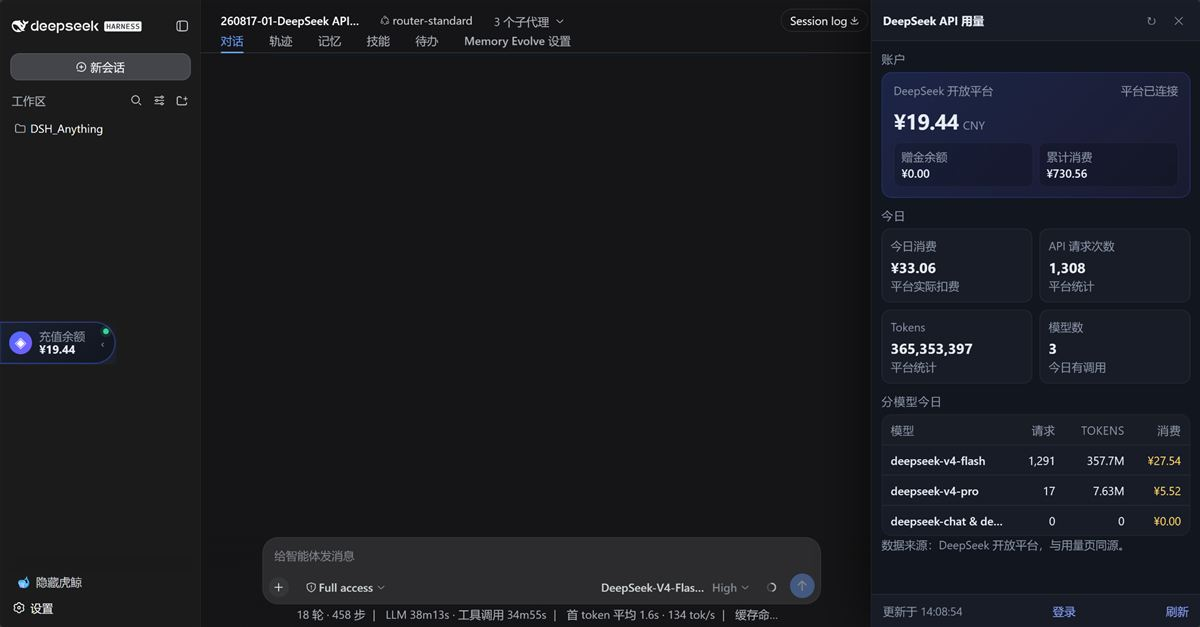
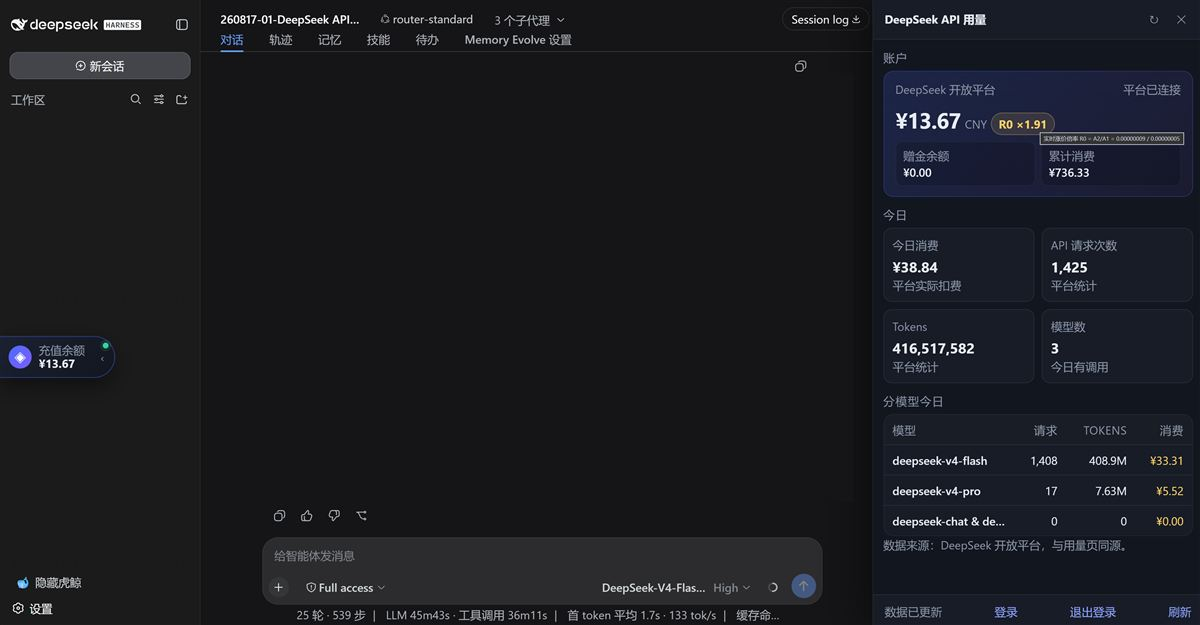
docs: detailed README with git/npm install and updated preview

diff --git a/README.md b/README.md
@@ -1,20 +1,60 @@
-# dsh-deepseek-usage
+# 📊 dsh-deepseek-usage
 
-DeepSeek API 用量监测插件：右侧悬浮球显示充值余额，点击展开面板展示累计消费、今日消费、API 请求次数、Tokens 和分模型今日用量，并实时计算 8 月 17 日后的实际涨价倍率 R0（A2/A1）。
+**DeepSeek API 用量监测插件** —— 右侧悬浮球显示充值余额，点击展开面板展示开放平台真实余额、累计消费、今日消费、API 请求次数、Tokens、分模型今日用量，并实时计算 8 月 17 日后的实际涨价倍率 R0。
 
-![最新画面](docs/preview.jpg)
+<p align="center">
+  <img src="docs/preview.jpg" alt="DeepSeek API 用量监测预览" width="500">
+</p>
 
-## 数据来源
+<p align="center">
+  <img alt="license" src="https://img.shields.io/badge/license-MIT-blue">
+  <img alt="version" src="https://img.shields.io/badge/version-v0.1.0-blueviolet">
+  <img alt="runtime" src="https://img.shields.io/badge/runtime-dsh%20web-4d6bfe">
+</p>
 
-全部数据来自 DeepSeek 开放平台私有 API，与官方用量页同源：
+## ✨ 特性
 
-- `GET /api/v0/users/get_user_summary` — 充值余额、赠金余额、累计消费
-- `GET /api/v0/usage/by_api_key/amount` — 今日请求次数 / Tokens
-- `GET /api/v0/usage/by_api_key/cost` — 今日消费 / 分模型消费
+| 分类 | 说明 |
+|---|---|
+| 🟢 悬浮球 | 默认停靠右侧，可拖动上下移动，拖到左半边自动吸附左侧 |
+| 📋 用量面板 | 充值余额、赠金余额、累计消费、今日消费、API 请求次数、Tokens、分模型用量 |
+| 📈 R0 涨价倍率 | 实时计算 `A2 / A1`，其中 `A1` 为 8 月 17 日前每 Token 平均消费，`A2` 为 8 月 17 日起每 Token 平均消费 |
+| 🔐 登录机制 | 未配置 userToken 时，可打开本地 Edge 登录开放平台，自动读取并保存 userToken |
+| 🚪 退出登录 | 一键清除本机保存的 userToken，方便切换账号重新登录 |
+| 🖱 交互 | 点击面板外部自动收起；支持键盘 Esc 关闭；支持 reduced motion |
 
-**不使用本地价格表，不估算，不计算消费。**
+## 🚀 安装
 
-## 配置
+### Git 安装
+
+```sh
+dsh plugin --profile web add github:mmzm0808/dsh-deepseek-usage
+```
+
+### npm 安装
+
+```sh
+dsh plugin --profile web add dsh-deepseek-usage
+```
+
+### 本地开发安装
+
+```sh
+dsh plugin --profile web add "E:\ProgramData\deepseek-harness\DSH_Anything\dsh-deepseek-usage"
+```
+
+- 仓库已提交完整 `lib/` 构建产物，安装**无需执行构建脚本**（pnpm ≥10 的 allowBuilds 门禁不影响本插件）
+- 安装后**重启 dsh**（新 bundle 层在启动时加载）
+
+## 📖 使用
+
+1. **查看**：右侧悬浮球直接显示充值余额，点击展开用量面板
+2. **拖动**：按住悬浮球上下拖动；松手时根据位置自动吸附左侧或右侧
+3. **登录**：未登录时点击面板底部「登录」，在打开的 Edge 窗口中登录 DeepSeek 开放平台
+4. **退出登录**：点击面板底部「退出登录」，清除本机 userToken 后重新登录
+5. **收起**：点击面板外部任意位置、Esc 或面板右上角 ✕ 均可收起
+
+## 🔑 配置
 
 `userToken` 是平台 Web 登录态，只作为配置项，不写入插件源码/包内。
 
@@ -36,18 +76,22 @@ DEEPSEEK_PLATFORM_USER_TOKEN=你的 userToken
 
 也可以不手动配置：点击面板中的 **「登录」** 按钮，插件会打开本地 Edge 窗口让你登录 DeepSeek 开放平台，登录成功后自动读取并保存 `userToken`。
 
-## 路由
+## 🗂 数据与安全
 
-- `GET /api/deepseek-usage/state` — 当前余额 + 今日用量快照。
-- `POST /api/deepseek-usage/refresh` — 强制刷新。
+- 数据全部来自 DeepSeek 开放平台私有 API，与官方用量页同源，**不使用本地价格表，不估算消费**
+- `userToken` 只保存在本机用户配置中，不进入插件源码或 Git 仓库
+- API：`/api/deepseek-usage/state | refresh | login/start | login/status | logout`（**loopback-only**，仅本机可访问）
+- 响应统一 `Cache-Control: no-store`
 
-路由仅限 loopback，响应 `Cache-Control: no-store`。
-
-## 开发
+## 🛠 开发
 
 ```sh
 pnpm install
-pnpm build        # host tsc + client tsdown
+pnpm build      # host tsc + client tsdown
 pnpm typecheck
 pnpm verify
 ```
+
+## 📄 许可证
+
+MIT License · Copyright (c) 2026 mmzm0808
